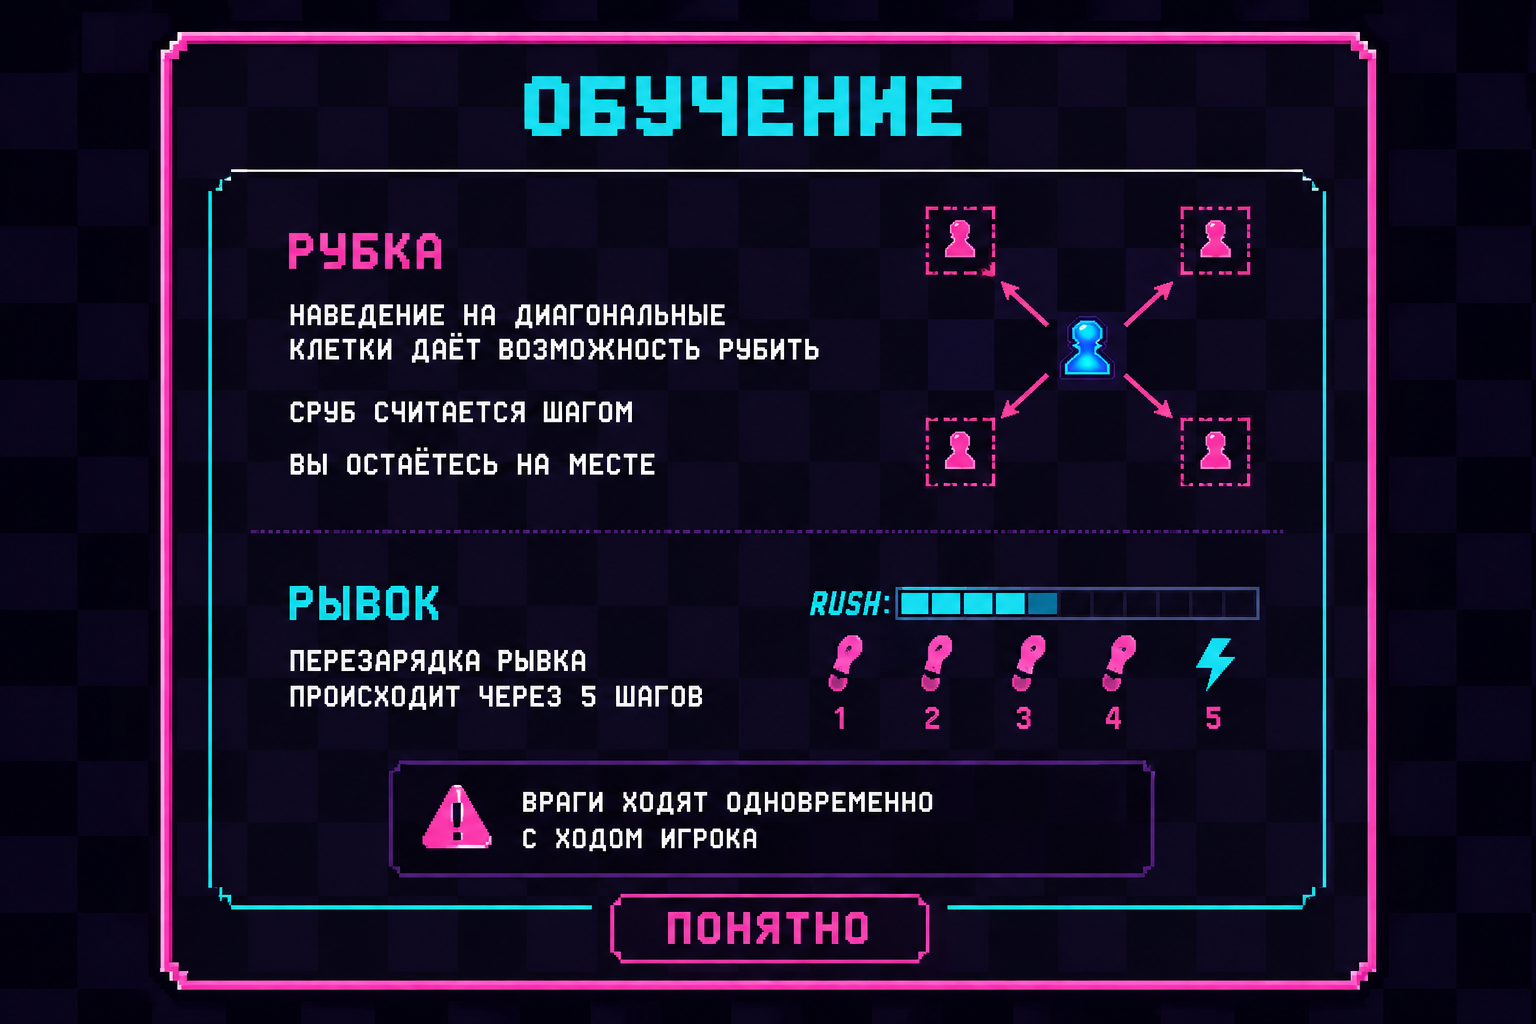
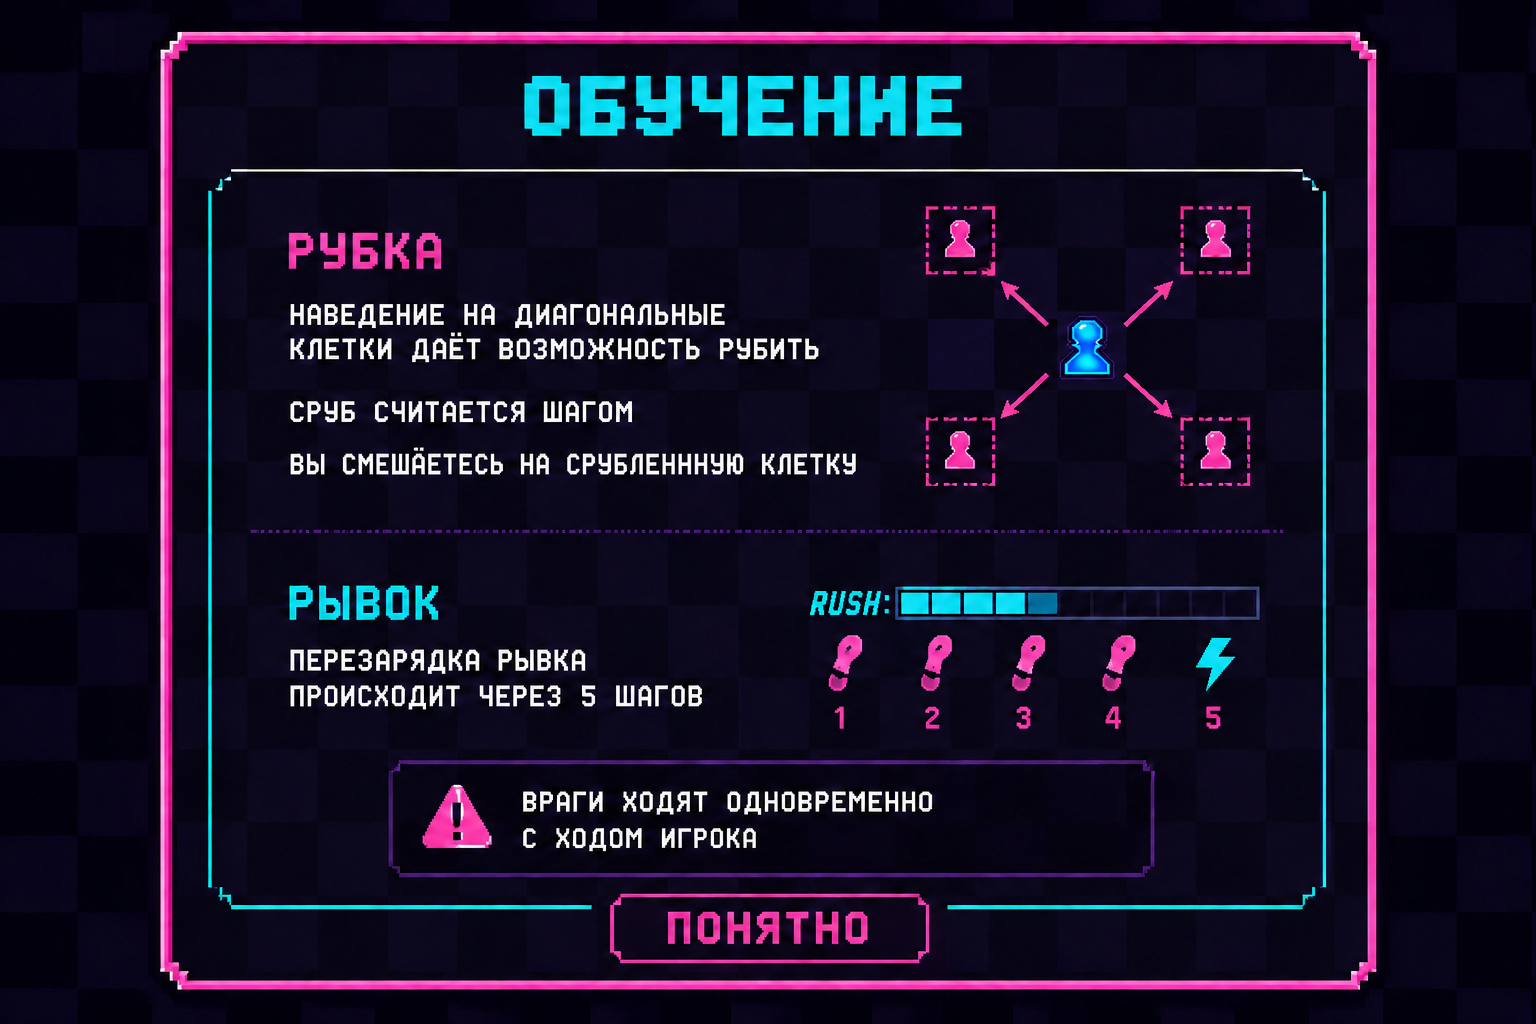
Добавлено уничтожение врага и регистрация килла в GamePresenter; выравнены заголовки в MenuViewer; обновлено изображение AttackGuide.png

diff --git a/ChessLine_Miami/UI/MenuViewer.cs b/ChessLine_Miami/UI/MenuViewer.cs
@@ -153,7 +153,11 @@ public class MenuViewer
             g.DrawRectangle(menuPen, menuX, menuY, menuWidth, menuHeight);
 
             using var titleFont = new Font("Arial", 16, FontStyle.Bold);
-            g.DrawString("PAUSED", titleFont, Brushes.White, menuX + 100, menuY + 20);
+            var titleText = "PAUSED";
+            var titleSize = g.MeasureString(titleText, titleFont);
+            g.DrawString(titleText, titleFont, Brushes.White,
+                menuX + (menuWidth - titleSize.Width) / 2,
+                menuY + 20);
 
             var buttonWidth = 200;
             var buttonHeight = 40;
@@ -190,7 +194,11 @@ public class MenuViewer
         g.DrawRectangle(menuPen, menuX, menuY, menuWidth, menuHeight);
 
         using var titleFont = new Font("Arial", 28, FontStyle.Bold);
-        g.DrawString("LEVEL COMPLETE!", titleFont, Brushes.Gold, menuX + 80, menuY + 20);
+        var titleText = "LEVEL COMPLETE!";
+        var titleSize = g.MeasureString(titleText, titleFont);
+        g.DrawString(titleText, titleFont, Brushes.Gold,
+            menuX + (menuWidth - titleSize.Width) / 2,
+            menuY + 20);
 
         var startY = menuY + 100;
         using var statsFont = new Font("Arial", 14, FontStyle.Bold);
@@ -243,7 +251,11 @@ public class MenuViewer
 
         // Заголовок
         using var titleFont = new Font("Arial", 28, FontStyle.Bold);
-        g.DrawString("SELECT LEVEL", titleFont, Brushes.Gold, 50, 30);
+        var titleText = "SELECT LEVEL";
+        var titleSize = g.MeasureString(titleText, titleFont);
+        g.DrawString(titleText, titleFont, Brushes.Gold,
+            (screenWidth - titleSize.Width) / 2,
+            30);
 
         // Очищаем старые ректы
         _levelButtonRects.Clear();
@@ -251,7 +263,8 @@ public class MenuViewer
         var buttonWidth = 250;
         var buttonHeight = 70;
         var spacing = 20;
-        var startX = 50;
+        var gridWidth = buttonWidth * 2 + spacing;
+        var startX = (screenWidth - gridWidth) / 2;
         var startY = 100;
 
         // Рисуем кнопки уровней
@@ -308,7 +321,7 @@ public class MenuViewer
         }
 
         // Кнопка "Назад"
-        _levelSelectionBackButtonRect = new Rectangle(screenWidth - 150, screenHeight - 50, 100, 40);
+        _levelSelectionBackButtonRect = new Rectangle((screenWidth - 100) / 2, screenHeight - 60, 100, 40);
         DrawButton(g, _levelSelectionBackButtonRect, "Back");
     }
 
@@ -332,7 +345,11 @@ public class MenuViewer
 
         // Заголовок
         using var titleFont = new Font("Arial", 24, FontStyle.Bold);
-        g.DrawString("SETTINGS", titleFont, Brushes.White, menuX + 150, menuY + 20);
+        var titleText = "SETTINGS";
+        var titleSize = g.MeasureString(titleText, titleFont);
+        g.DrawString(titleText, titleFont, Brushes.White,
+            menuX + (menuWidth - titleSize.Width) / 2,
+            menuY + 20);
 
         // Громкость
         using var labelFont = new Font("Arial", 14, FontStyle.Bold);
@@ -375,7 +392,7 @@ public class MenuViewer
             using var fill = new SolidBrush(Color.Orange);
             g.FillRectangle(fill, Rectangle.Inflate(_lavaCheckboxRect, -3, -3));
         }
-        g.DrawString("Simple lava tiles", labelFont, Brushes.White, menuX + 70, menuY + 198);
+        g.DrawString("Simple lava tiles(Optimization for FPS)", labelFont, Brushes.White, menuX + 70, menuY + 198);
 
         // Кнопка "Назад"
         _settingsBackButtonRect = new Rectangle(menuX + (menuWidth - 150) / 2, menuY + 270, 150, 50);

diff --git a/ChessLine_Miami/Presenters/GamePresenter.cs b/ChessLine_Miami/Presenters/GamePresenter.cs
@@ -149,6 +149,7 @@ public class GamePresenter
             {
                 if (enemy.IsAlive)
                 {
+                    
                     enemy.Kill();
                     _game.RegisterKill(); // Регистрируем килл для комбо
                     var musicPath =  Path.Combine(AppDomain.CurrentDomain.BaseDirectory, "UI/SFX/hotline-miami-hit.wav"); 
